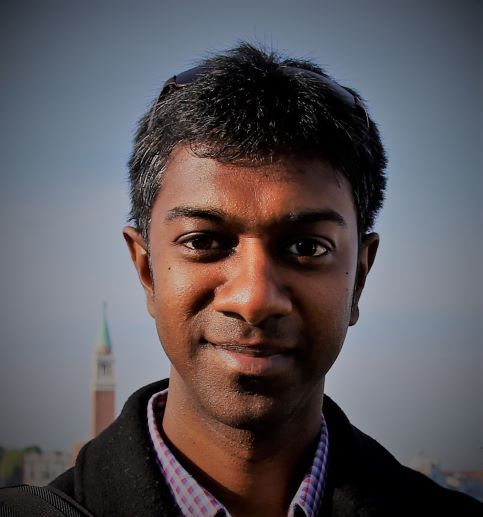
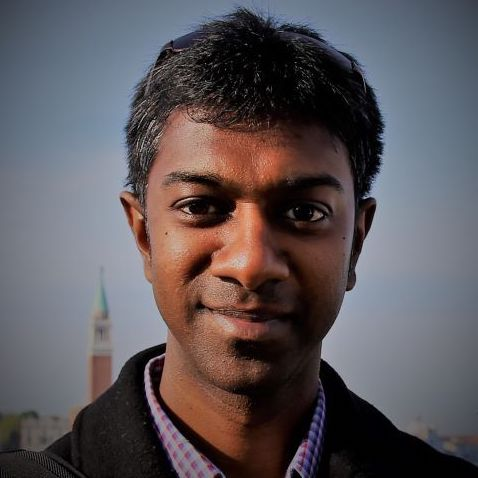
- updated pictures / desc

diff --git a/coaches.js b/coaches.js
@@ -13,7 +13,7 @@ let coaches = [
       "UTC": "-6",
       "diff": { "hours": -6, "minutes": 0 },
       "available": [9, 17],
-      "profpic": "img/js-sample-pic.png",
+      "profpic": "img/Kiska.jpg",
       "description": "PROFILE STILL BEING CODED.",
       "slack": { "userId": "U011ZGK9T70", "profileSearchUrl": "https://app.slack.com/client/T011D0D7T54/browse-people/user_profile/" }
     },
@@ -68,9 +68,9 @@ let coaches = [
       "name": "Abdou",
       "UTC": "+2",
       "diff": { "hours": 2, "minutes": 0 },
-      "available": [9, 17],
-      "profpic": "img/js-sample-pic.png",
-      "description": "PROFILE STILL BEING CODED.",
+      "available": [18, 22],
+      "profpic": "img/Abdou.jpg",
+      "description": "Hi guys, im Abdou. Just like you I started to learn coding (Next to stressful a 40-50h/week full-time job) with no experience and no clue on where to start and what to do. After trying many different things I finally found a strategy to follow. Following this strategy made me 'Job ready' in 7 months. Building a great routine and using some techniques really helped me to be able to learn next to a fulltime-job. I'm now working at one of the greatest companies i've ever seen in Germany. Also very much interested in personal development, fitness and stuff like this. Favourite Book: Can't Hurt me - David Goggings; Technologies: React, React Native, Node.js",
       "slack": { "userId": "U011B8BFZBR", "profileSearchUrl": "https://app.slack.com/client/T011D0D7T54/browse-people/user_profile/" }
     },
     {
